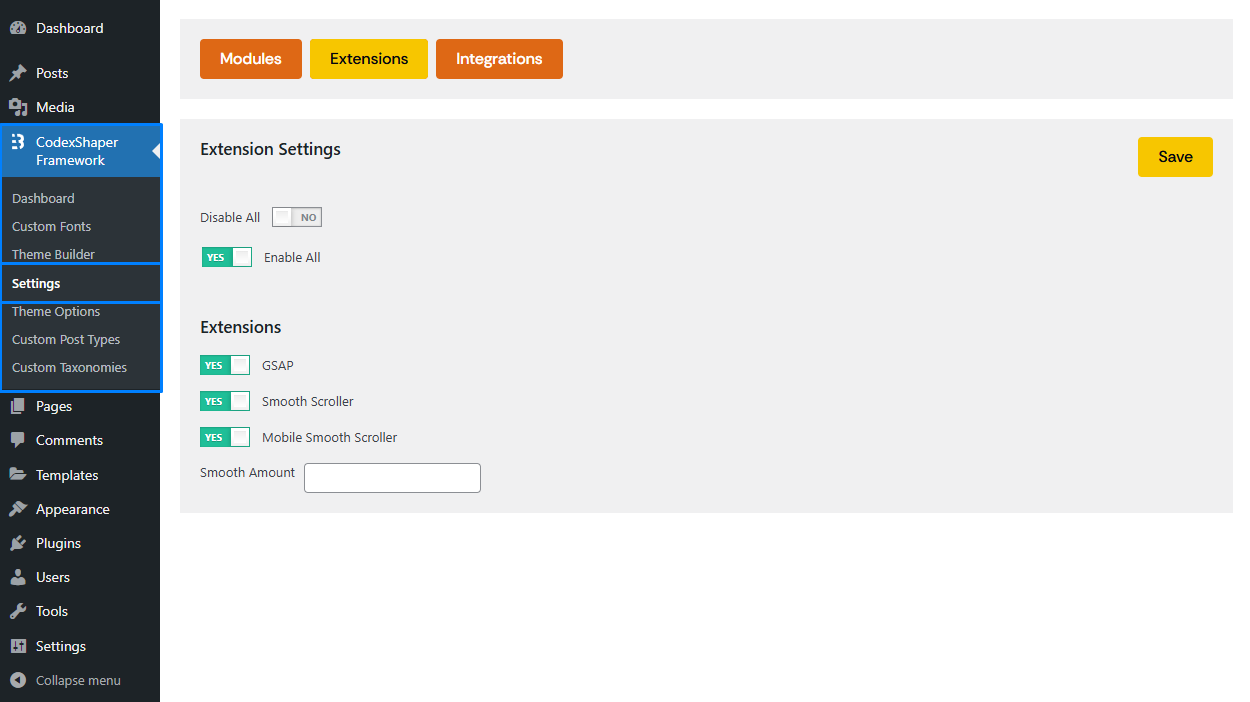
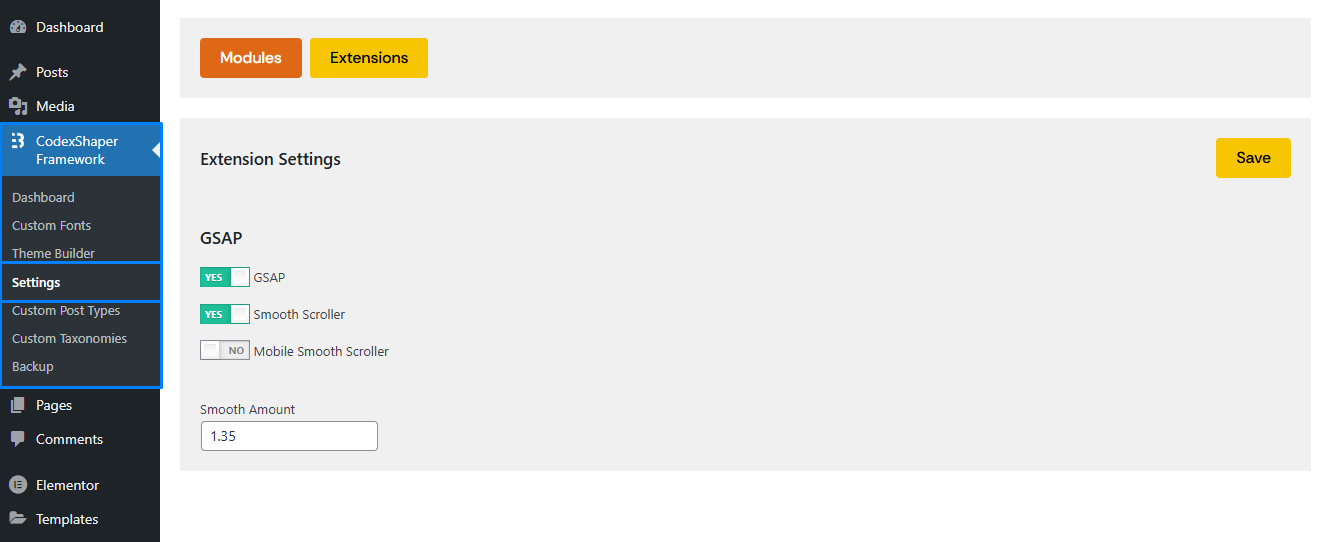
Making docs for extensions.

Changed region(s): [[0.0, 0.0, 0.468, 1.0], [0.9048, 0.1771, 0.9984, 0.3542]]

diff --git a/assets/css/cxf.css b/assets/css/cxf.css
@@ -32,6 +32,9 @@ aside.VPSidebar:hover::-webkit-scrollbar-thumb {
 .cxf--img-wrapper {
   margin-top: 24px;
   border: 1px solid #e2e2e3;
+}
+
+.cxf--img-wrapper.w-max {
   width: max-content;
 }
 

diff --git a/public/assets/css/cxf.css b/public/assets/css/cxf.css
@@ -32,6 +32,9 @@ aside.VPSidebar:hover::-webkit-scrollbar-thumb {
 .cxf--img-wrapper {
   margin-top: 24px;
   border: 1px solid #e2e2e3;
+}
+
+.cxf--img-wrapper.w-max {
   width: max-content;
 }
 

diff --git a/framework/extensions/animation/text-animation.md b/framework/extensions/animation/text-animation.md
@@ -1,0 +1,48 @@
+# Text Animation
+## Introduction
+The Text Animation feature in **CodexShaper Framework** enables developers to create dynamic, attention-grabbing text effects that enhance user engagement. This documentation provides a clear overview of available animation types and configuration options.
+
+## Location
+Go To `Elementor` → `Content tab` → `Text Animation`
+
+<p class="cxf--img-wrapper w-max">
+    <img src="/public/assets/framework/images/extensions/animation/text-animation.png" alt="Elementor Text Animation Interface">
+</p>
+
+## Animation Types
+
+| Type          | Description                                       | Best Used For |
+|---------------|---------------------------------------------------|---------------|
+| Character     | Animates each letter individually                 | Creating playful, high-energy effects |
+| Word          | Animates each word as a separate unit             | Emphasizing specific terms in a phrase |
+| Text Move     | Slides entire text blocks into position           | Clean, professional entrances for headlines |
+| Text Reveal   | Gradually unveils text with a reveal effect       | Creating suspense or focus on important content |
+| Text Invert   | Flips or inverts text during animation            | Making dramatic statements or transitions |
+
+## Configuration Settings
+
+| Parameter             | Function                              | Default           | Explanation |
+|-----------------------|---------------------------------------|-------------------|-------------|
+| Animation             | Sets animation style                  | `none`            | Choose from the five animation types above |
+| Delay                 | Initial pause before animation starts | `0.15s`           | Controls when text begins animating after trigger |
+| Duration              | Total animation time                  | `1s`              | Adjusts how quickly the full animation completes |
+| Stagger               | Time between elements                 | `0.02s`           | For Character/Word: timing between each element |
+| Animation on scroll   | Triggers on viewport entry            | `Yes`             | Activates animation when user scrolls to text |
+| Rotation Direction    | Axis of rotation                      | `X`               | Determines rotation plane (X or Y axis) |
+| Rotation Value        | Degree of rotation                    | `-80`             | Sets rotation angle in degrees |
+| Transform Origin      | Initial point for transforms          | `top center -50`  | Defines the anchor point for movements |
+| Breakpoint            | Device compatibility                  | `All`             | Controls which device sizes show the animation |
+
+## Implementation Tips
+
+### For Maximum Impact
+- Use Character animations sparingly for standout headlines
+- Apply Text Move for clean, professional section intros
+- Implement Text Reveal for important calls-to-action
+- Keep animations under 1.5 seconds for optimal user experience
+
+### Technical Considerations
+- Lower stagger values (0.01-0.03s) create smoother sequences
+- Match rotation direction with animation type for natural movement
+- Consider disabling complex animations on mobile devices
+- Test animations at various scroll speeds

diff --git a/framework/extensions/animation/image-animation.md b/framework/extensions/animation/image-animation.md
@@ -1,0 +1,46 @@
+# Image Animation
+
+## Introduction
+The Image Animation feature in the CodexShaper Framework enables developers to add dynamic visual effects to featured images. This functionality enhances user engagement by creating smooth, professional transitions that draw attention to important visual elements.
+
+## Location
+Go To `Elementor` → `Content tab` → `Image Animation`
+
+<p class="cxf--img-wrapper w-max">
+    <img src="/public/assets/framework/images/extensions/animation/image-animation.png" alt="Elementor Image Animation Interface">
+</p>
+
+## Animation Types and Settings
+
+#### Animation Types
+| Type      | Description                                               | Best Used For |
+|-----------|-----------------------------------------------------------|---------------|
+| Scale     | Gradually changes image size from start to end values     | Creating focus on hero images and featured content |
+| Reveal    | Progressively unveils the image using a sliding effect    | Dramatic introductions of new visual content |
+| Stretch   | Distorts and then normalizes the image dimensions         | Creating dynamic, attention-grabbing effects |
+
+##### Configuration Settings
+| Parameter         | Function                  | Default       | Explanation |
+|-------------------|---------------------------|---------------|-------------|
+| Animation         | Sets animation style      | `none`        | Choose from animation types above |
+| Start Scale       | Initial size ratio        | `0.7`         | Starting size as a proportion of final size (0.7 = 70%) |
+| End Scale         | Final size ratio          | `1`           | Target size when animation completes (1 = 100%) |
+| Animation From    | Origin point of animation | `Top Top`     | First value is element position, second is display position |
+| Ease              | Movement pattern          | `Power2.out`  | Controls the acceleration/deceleration curve |
+
+## Implementation Guide
+
+### Basic Scale Animation
+For example, with the default settings:
+
+- The image begins at 70% of its final size
+- It smoothly scales up to 100%
+- The animation originates from the top of both the element and display
+- The Power2.out easing creates a natural slowing at the end of the animation
+
+### Configuration Tips
+
+- **For Subtle Effects**: Use close values for Start/End Scale (e.g., 0.9 to 1)
+- **For Dramatic Impact**: Use more contrasting values (e.g., 0.5 to 1)
+- **For Different Directions**: Change Animation From to control the origin
+- **For Timing Adjustments**: Select different Ease options to change how the animation accelerates

diff --git a/framework/settings/extensions.md b/framework/settings/extensions.md
@@ -12,16 +12,16 @@ Go to `CodexShaper Framework >> Settings`
 
 ## Managing Extensions
 
-#### Enable/Disable All Extensions
+<!-- #### Enable/Disable All Extensions
 - To enable all extensions, toggle the **Enable All** switch to `YES`.
-- To disable all extensions, toggle the **Disable All** switch to `NO`.
+- To disable all extensions, toggle the **Disable All** switch to `NO`. -->
 
 
-## Managing Individual Extensions
+### Managing Individual Extensions (GSAP)
 
 Each extension can be individually toggled `YES` or `NO` using the toggle switch. Below is detailed information about each available extension.
 
-### 1. GSAP
+#### 1. GSAP
 
 **Purpose:** Integrates the GreenSock Animation Platform (GSAP) for advanced animations.
 
@@ -33,7 +33,7 @@ Each extension can be individually toggled `YES` or `NO` using the toggle switch
 - Performance optimization
 - Timeline-based animation sequencing
 
-### 2. Smooth Scroller
+#### 2. Smooth Scroller
 
 **Purpose:** Provides smooth scrolling behavior for desktop users.
 
@@ -47,7 +47,7 @@ Each extension can be individually toggled `YES` or `NO` using the toggle switch
 **Configuration options:**
 - Smooth Amount: Controls the intensity of the smooth scrolling effect (higher values create slower, more pronounced smoothing)
 
-### 3. Mobile Smooth Scroller
+#### 3. Mobile Smooth Scroller
 
 **Purpose:** Extends smooth scrolling functionality to mobile devices.
 

diff --git a/framework/extensions/elementor/wrapper-link.md b/framework/extensions/elementor/wrapper-link.md
@@ -6,15 +6,15 @@ The Wrapper Link feature is a powerful functionality within the CodexShaper Fram
 ## Location
 Go To `Elementor` → `Advanced tab` → `Wrapper Link`
 
-<p class="cxf--img-wrapper">
+<p class="cxf--img-wrapper w-max">
     <img src="/public/assets/framework/images/extensions/elementor/wrapper-link.png" alt="Elementor Wrapper Link Interface">
 </p>
 
 ## Configuration Guide
 
-| Parameter | Function                                  | Example               | Explanation |
-|-----------|-------------------------------------------|-----------------------|-------------|
-| Link      | Destination URL for the entire element    | `https://example.com` | Sets the target page that opens when the element is clicked |
+| Parameter | Function                                  | Example                   | Explanation |
+|-----------|-------------------------------------------|---------------------------|-------------|
+| Link      | Destination URL for the entire element    | `https://codexshaper.com` | Sets the target page that opens when the element is clicked |
 
 ## Technical Implementation
 

diff --git a/framework/Installation.md b/framework/Installation.md
@@ -2,12 +2,10 @@
 
 You can install the **CodexShaper Framework** in two ways:
 
-1. Using as a Plugin (Recommended)
+1. Using as a Plugin **(Recommended)**
 2. Integrating Inside a Theme
 
----
-
-### ✅ Using as a Plugin (Recommended)
+## 1. As a Plugin
 
 1. **Download the Plugin**
 
@@ -21,18 +19,17 @@ You can install the **CodexShaper Framework** in two ways:
 
 3. **Configure the Plugin**
 
-    - Once activated, navigate to the **CodexShaper Framework** Settings to configure the options as needed.
+    - Once activated, navigate to the `Wordpress Dashboard` >> `CodexShaper Framework` to configure the options as needed.
 
----
 
-### 📂 Using Inside a Theme
+## 2. Inside a Theme
 
 1. **Download and Extract the Plugin ZIP**
 
     - Download the **CodexShaper Framework** ZIP file.
     - Extract the ZIP file inside your theme folder. For example:
     ```
-    /wp-content/themes/theme-name/inc/codexshaper-framework
+    {project_root}/wp-content/themes/theme-name/inc/codexshaper-framework
     ```
     - Or, you can place it anywhere within your theme directory.
 

diff --git a/framework/releases/initial-release.md b/framework/releases/initial-release.md
@@ -28,6 +28,7 @@ CodexShaper Framework is an MVC-based framework for WordPress, providing a one-s
 
 ## Getting Started
 After activating CodexShaper, you can begin:
+
 - Creating custom post types dynamically.
 - Managing metaboxes and taxonomies with an intuitive UI.
 - Building WordPress themes using the framework’s theme builder.
@@ -35,8 +36,11 @@ After activating CodexShaper, you can begin:
 ## License
 CodexShaper Framework is released under an open-source license. See the LICENSE file for more details.
 
-## Support
-For issues and feature requests, visit our GitHub repository or official support forum.
+## Feedback & Support
+We value your feedback! If you encounter issues or have suggestions, please report them via:
+
+- GitHub Issues: [GitHub Repository Link](https://github.com/Codexshaper/codexshaper-framework)
+- Official Support: codexshaper@gmail.com
 
 ---
 **CodexShaper Framework - Empowering WordPress Developers**

diff --git a/framework/settings/modules.md b/framework/settings/modules.md
@@ -12,9 +12,9 @@ Go to `CodexShaper Framework >> Settings`
 
 ## Managing Modules
 
-#### Enable/Disable All Modules
+<!-- #### Enable/Disable All Modules
 - To enable all modules, toggle the **Enable All** switch to `YES`.
-- To disable all modules, toggle the **Disable All** switch to `NO`.
+- To disable all modules, toggle the **Disable All** switch to `NO`. -->
 
 #### Enabling or Disabling Each Modules
 - Each module has a toggle switch with `YES/NO` options.

diff --git a/framework/extensions/elementor/custom-attribute.md b/framework/extensions/elementor/custom-attribute.md
@@ -6,7 +6,7 @@ The Custom Attributes feature in the CodexShaper framework allows developers to 
 ## Location
 Go To `Elementor` → `Advanced tab` → `Attributes`
 
-<p class="cxf--img-wrapper">
+<p class="cxf--img-wrapper w-max">
     <img src="/public/assets/framework/images/extensions/elementor/custom-attribute.png" alt="Elementor Custom Attribute Interface">
 </p>
 

diff --git a/framework/extensions/animation/animation.md b/framework/extensions/animation/animation.md
@@ -6,7 +6,7 @@ The Animation extension in the CodexShaper Framework provides developers with co
 ## Location
 Go To `Elementor` → `Advanced tab` → `Animation`
 
-<p class="cxf--img-wrapper">
+<p class="cxf--img-wrapper w-max">
     <img src="/public/assets/framework/images/extensions/animation/animation.png" alt="Elementor Custom Attribute Interface">
 </p>
 

diff --git a/framework/extensions/elementor/custom-css.md b/framework/extensions/elementor/custom-css.md
@@ -6,7 +6,7 @@ The Custom CSS feature in the CodexShaper framework allows developers to add spe
 ## Location
 Go To `Elementor` → `Advanced tab` → `Custom CSS`
 
-<p class="cxf--img-wrapper">
+<p class="cxf--img-wrapper w-max">
     <img src="/public/assets/framework/images/extensions/elementor/custom-css.png" alt="Elementor Custom CSS Interface">
 </p>
 
